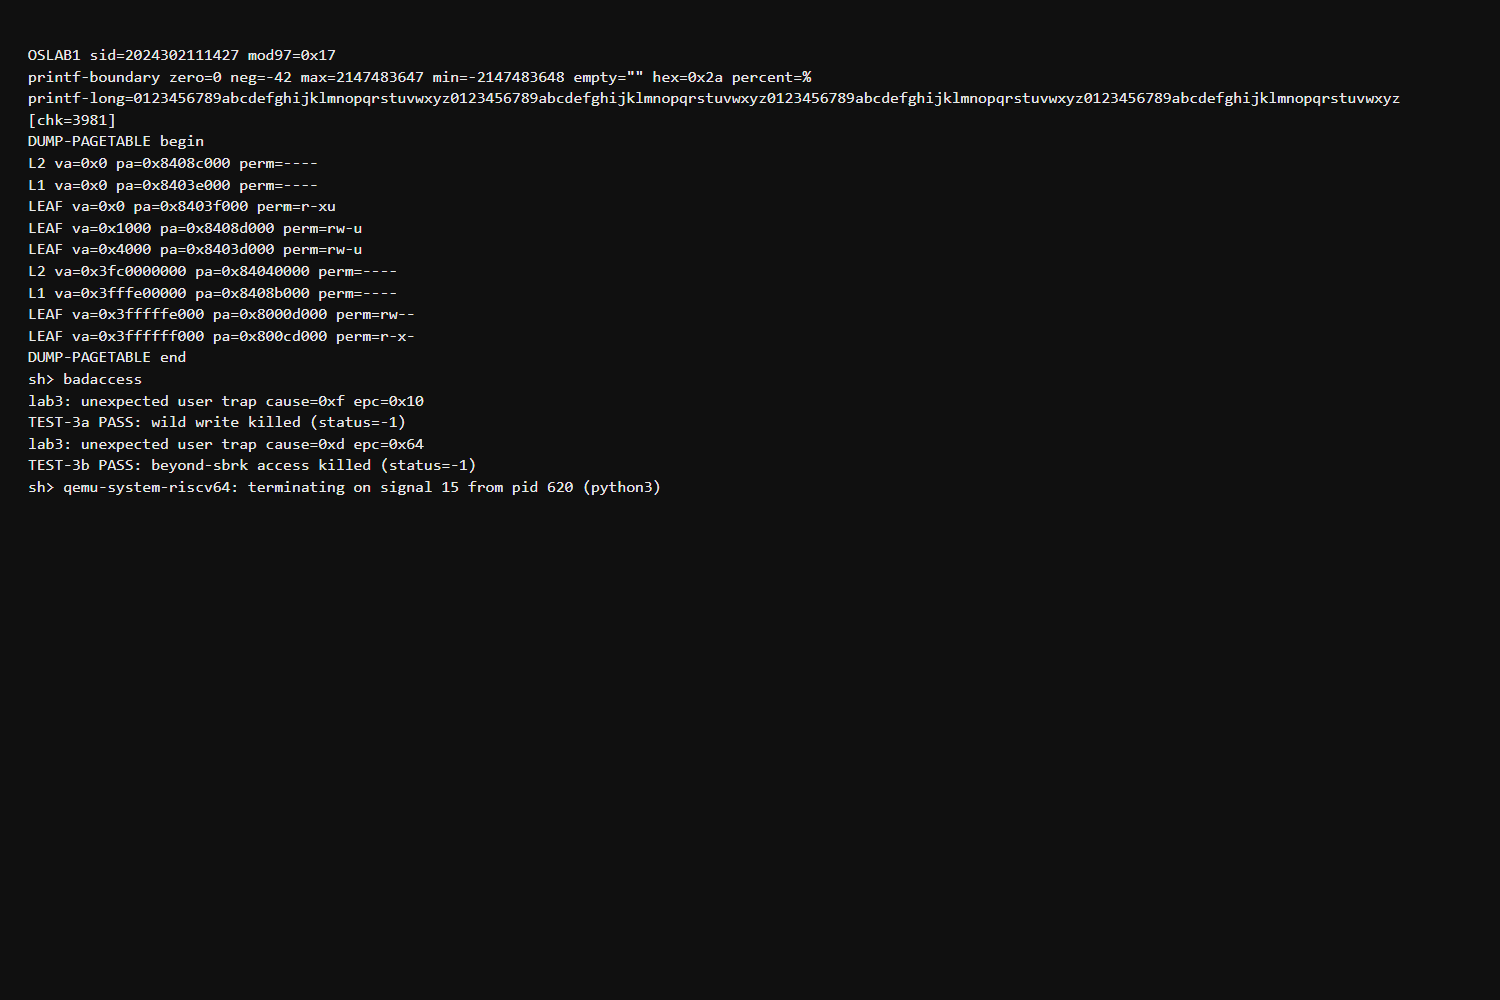
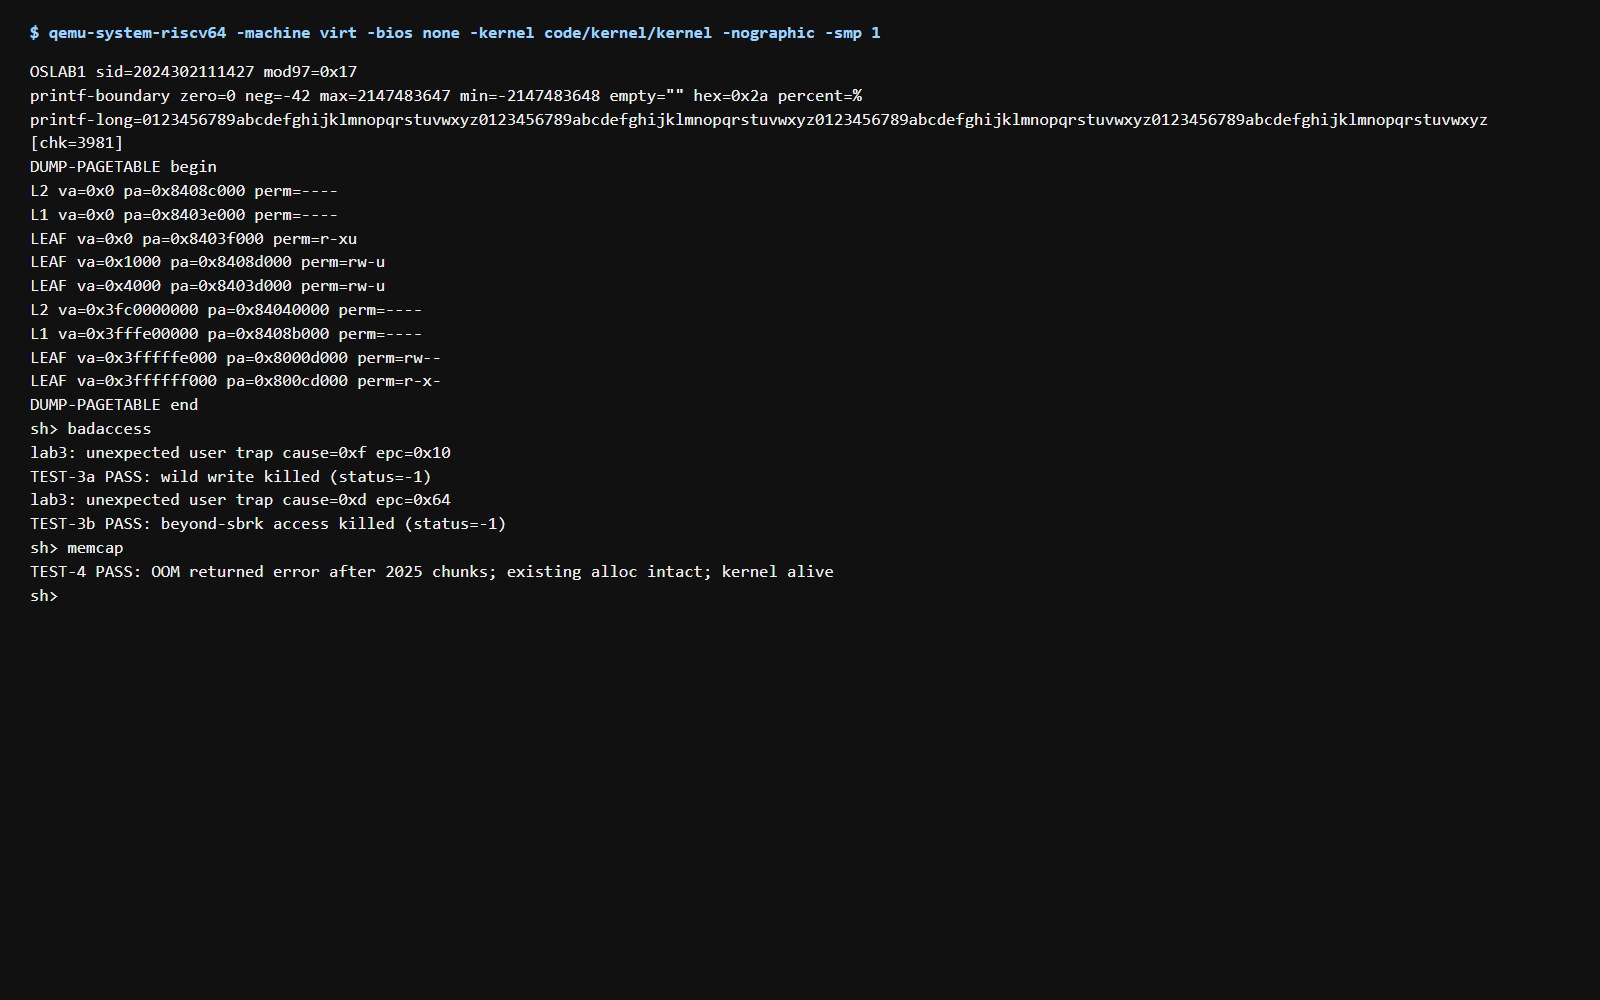
Lab3：优化实验图示并补充真实终端证据

Changed region(s): [[0.0, 0.031, 0.9507, 0.589]]

diff --git a/doc/lab3/docs/lab3-experiment-report.md b/doc/lab3/docs/lab3-experiment-report.md
@@ -22,11 +22,15 @@ PTE 的 `A/D` 位交由硬件按 RISC-V 语义置位，dump 只输出 ABI 规定
 
 本轮不把 `KSTACK(p)` 映射进用户页表；每个 `struct proc` 的内核栈仍是内核恒等映射区中的独立数组，避免把内核栈暴露给用户，和 Lab0 快照中的高地址用户 trapframe/trampoline 区分。
 
+图 1：用户地址空间、保护页、堆边界与内核/用户 trampoline 共享映射。
+
 ![用户地址空间与权限](../images/lab3-address-space.png)
 
 ### 2.4 受控拷贝、fork 与 exec
 
 系统调用不再直接解引用用户指针：`copyin/copyout` 逐页调用 `walkaddr`，检查 `V/U` 及写权限，跨页时按页边界分段。`fork` 对父地址空间逐页深拷贝，遇到 guard 空洞跳过，trapframe/trampoline 不复制；子进程重新映射自己的 trapframe。`exec` 先构建并完整填充新页表，全部成功后才替换旧页表，失败路径保留原进程地址空间。
+
+图 2：用户态系统调用经过 trapframe、页表权限检查和跨页受控拷贝。
 
 ![系统调用受控拷贝](../images/lab3-syscall-copy.png)
 
@@ -34,11 +38,17 @@ PTE 的 `A/D` 位交由硬件按 RISC-V 语义置位，dump 只输出 ABI 规定
 
 `SYS_sbrk` 对正增量调用 `uvmalloc`，失败时由其回滚已分配页并保持旧 `brk`；负增量调用 `uvmdealloc`。请求越过 `TRAPFRAME` 前的保护边界直接返回 `-1`。`SBRK_LAZY` 在 Lab3 按 EAGER 语义执行，后续缺页分配留给 Lab5。
 
+图 3：`sbrk` 和 `exec` 的失败回滚/延迟提交路径。
+
 ![映射失败回滚](../images/lab3-rollback.png)
 
 ## 3. 实测证据
 
-真实 QEMU 输出见 [`../images/lab3-terminal-run.png`](../images/lab3-terminal-run.png)，关键结果为：
+真实 QEMU `virt` 单核输出截图如下；它包含启动页表 dump、`badaccess` 两条异常路径和 `memcap` OOM 回滚结果。原始文本输出保存在 [`lab3-qemu-output.txt`](lab3-qemu-output.txt)。
+
+![真实 QEMU 终端运行截图](../images/lab3-terminal-run.png)
+
+关键结果为：
 
 ```text
 DUMP-PAGETABLE begin

diff --git a/doc/lab3/README.md b/doc/lab3/README.md
@@ -7,7 +7,9 @@
 ```text
 doc/lab3/
 ├── README.md
-├── docs/lab3-experiment-report.md
+├── docs/
+│   ├── lab3-experiment-report.md
+│   └── lab3-qemu-output.txt
 └── images/
     ├── lab3-address-space.mmd / .png
     ├── lab3-syscall-copy.mmd / .png
@@ -16,6 +18,8 @@ doc/lab3/
 ```
 
 主报告见 [`docs/lab3-experiment-report.md`](docs/lab3-experiment-report.md)。实现位于 [`code/kernel/vm.c`](../../code/kernel/vm.c)、[`code/kernel/proc.c`](../../code/kernel/proc.c) 和 [`code/kernel/syscall.c`](../../code/kernel/syscall.c)；官方测试为 [`badaccess.c`](../../code/user/badaccess.c) 与 [`memcap.c`](../../code/user/memcap.c)。课程要求原文与 ABI 留在 [`course-config/`](../../course-config/)。
+
+主报告内嵌三张黑白 Mermaid 图和一张真实 QEMU 终端截图；终端截图对应的原始输出另存为 [`docs/lab3-qemu-output.txt`](docs/lab3-qemu-output.txt)。
 
 ## 查验命令
 
